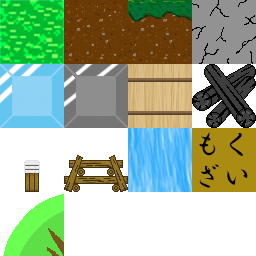
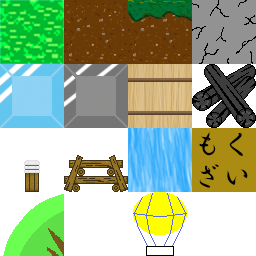
2016.11.05 柏 気球に関する処理追加

Changed region(s): [[0.5, 0.75, 0.75, 1.0]]

diff --git a/TeamWorkGame/TeamWorkGame/TeamWorkGame/Actor/Balloon.cs b/TeamWorkGame/TeamWorkGame/TeamWorkGame/Actor/Balloon.cs
@@ -1,0 +1,111 @@
+using System;
+using System.Collections.Generic;
+using System.Linq;
+using System.Text;
+using Microsoft.Xna.Framework;
+using TeamWorkGame.Device;
+using TeamWorkGame.Def;
+using TeamWorkGame.Utility;
+using Microsoft.Xna.Framework.Graphics;
+
+namespace TeamWorkGame.Actor
+{
+
+    public class Balloon : GameObject
+    {
+        private Timer timer;
+        private int flyLevel;
+        private Vector2 startPosition;
+        private bool playerIsOn;
+        //private Animation animation;
+        //private AnimationPlayer animationPlayer;
+        //private bool IsAnimation = false;
+
+        public Balloon(Vector2 pos, Vector2 velo)
+            : base("balloon", pos, velo, false, "balloon")
+        {
+            //animationPlayer = new AnimationPlayer();
+
+            startPosition = pos;
+        }
+
+        public override void Initialize()
+        {
+            base.Initialize();
+
+            flyLevel = 0;
+            playerIsOn = false;
+        }
+
+        public override void Update(GameTime gameTime)
+        {
+            AliveUpdate();
+            //animationPlayer.PlayAnimation(animation);
+
+            if (!playerIsOn) {
+                if (PositionY >= startPosition.Y) { return; }
+                PositionY++;
+            }
+        }
+
+        public bool IsPlayerOn {
+            get { return playerIsOn; }
+            set { playerIsOn = value; }
+        }
+
+
+        public override void AliveEvent(GameObject other)
+        {
+            if (other is Player)
+            {
+                if (((Player)other).IsOnBalloon)
+                {
+                    other.Position = position;
+                    if (startPosition.Y - PositionY == Height * flyLevel) { return; }
+                    int velo = (int)(startPosition.Y - PositionY - Height * flyLevel);
+                    if (velo > 0)
+                    {
+                        PositionY++;
+                    }
+                    else {
+                        PositionY--;
+                    }
+                }
+            }
+        }
+
+        /// <summary>
+        /// 描画の再定義（透明値を追加）　By　氷見悠人　2016/10/20
+        /// </summary>
+        /// <param name="gameTime"></param>
+        /// <param name="renderer"></param>
+        /// <param name="offset"></param>
+        public override void Draw(GameTime gameTime, Renderer renderer, Vector2 offset)
+        {
+            renderer.DrawTexture(name, position + offset, alpha);
+            //if (IsAnimation)
+            //{
+            //    animationPlayer.Draw(gameTime, renderer, position + offset, SpriteEffects.None);
+            //    IsAnimation = animationPlayer.Reset(isShow);
+            //}
+        }
+
+        public override void EventHandle(GameObject other)
+        {
+            //火の数によって行動する
+            if (other is Player)
+            {
+                if (!playerIsOn) {;
+                    ((Player)other).IsOnBalloon = true;
+                    ((Player)other).IsOnGround = true;
+                    playerIsOn = true;
+                }
+
+                flyLevel = ((Player)other).FireNum;
+                AliveEvent(other);
+                //IsAnimation = true;
+            }
+        }
+    }
+
+}

diff --git a/TeamWorkGame/TeamWorkGame/TeamWorkGame/Actor/Player.cs b/TeamWorkGame/TeamWorkGame/TeamWorkGame/Actor/Player.cs
@@ -39,6 +39,8 @@ namespace TeamWorkGame.Actor
         private AnimationPlayer animePlayer;    //アニメ再生器
         private SpriteEffects flip = SpriteEffects.None;
 
+        private bool isOnBalloon;   //気球に乗ってるかどうか
+
         public int FireNum
         {
             get
@@ -87,6 +89,7 @@ namespace TeamWorkGame.Actor
             fireMaxNum = Parameter.FireMaxNum;
             fireNum = fireMaxNum;
             runAnime = new Animation(Renderer.GetTexture("playerAnime"), 0.1f, true);
+            isOnBalloon = false;
         }
 
         /// <summary>
@@ -195,6 +198,11 @@ namespace TeamWorkGame.Actor
                 {
                     other.EventHandle(this);
                 }
+                else {
+                    if (other is Balloon) {
+                        ((Balloon)other).IsPlayerOn = false;
+                    }
+                }
             }
 
             return flag;
@@ -207,6 +215,22 @@ namespace TeamWorkGame.Actor
         public override void Update(GameTime gameTime)
         {
             float speed = 5f;    //移動速度
+
+
+            //気球と衝突判定
+            foreach (var m in map.MapThings.FindAll(x => x is Balloon))
+            {
+                if (base.CollisionCheck(m))
+                {
+                    if (inputState.GetKeyState(Keys.Left)) { diretion = Direction.LEFT; }
+                    if (inputState.CheckTriggerKey(Parameter.JumpKey, Parameter.JumpButton))
+                    {
+                        isOnBalloon = false;
+                        isOnGround = false;
+                    }
+                }
+            }
+
 
             velocity.X = inputState.Velocity().X * speed;
 
@@ -229,6 +253,7 @@ namespace TeamWorkGame.Actor
                 {
                     velocity.Y = -13;
                     isOnGround = false;
+                    isOnBalloon = false;    //気球から離れる
                 }
             }
 
@@ -270,14 +295,18 @@ namespace TeamWorkGame.Actor
                 CollisionCheck(m);
             }
 
+
             //火と衝突判定
             foreach (var f in firesList)
             {
                 CollisionCheck(f);
             }
 
+            
+
+
             //滝との衝突判定
-            foreach(var wl in watersList)
+            foreach (var wl in watersList)
             {
                 foreach (var w in wl.Waters)
                     CollisionCheck(w);
@@ -297,6 +326,12 @@ namespace TeamWorkGame.Actor
         public bool GetState()
         {
             return isDead;
+        }
+
+        public bool IsOnBalloon
+        {
+            get { return isOnBalloon; }
+            set { isOnBalloon = value; }
         }
 
         /// <summary>

diff --git a/TeamWorkGame/TeamWorkGame/TeamWorkGame/Scene/PlayScene.cs b/TeamWorkGame/TeamWorkGame/TeamWorkGame/Scene/PlayScene.cs
@@ -48,6 +48,7 @@ namespace TeamWorkGame.Scene
         private StageSever stageSever;
         private int playTime;
 
+
         public PlayScene(GameDevice gameDevice, int mapIndex = 0)
         {
             this.gameDevice = gameDevice;
@@ -246,6 +247,12 @@ namespace TeamWorkGame.Scene
             renderer.DrawNumber("number", new Vector2(1152, 64), coals.Count - nowCoals.Count);
             renderer.DrawNumber("number", new Vector2(1182, 64), "/", 1);
             renderer.DrawNumber("number", new Vector2(1216, 64), coals.Count);
+
+            //playTimeの表示(柏)
+            int[] playtime = stageSever.TimeCalculat(playTime/60);
+            renderer.DrawNumber("number", new Vector2(1152, 128), playtime[0]);
+            renderer.DrawNumber("number", new Vector2(1182, 128), "/", 1);
+            renderer.DrawNumber("number", new Vector2(1216, 128), playtime[1]);
         }
 
         public Rectangle GetRect(int num)

diff --git a/TeamWorkGame/TeamWorkGame/TeamWorkGame/Utility/Method.cs b/TeamWorkGame/TeamWorkGame/TeamWorkGame/Utility/Method.cs
@@ -297,6 +297,12 @@ namespace TeamWorkGame.Utility
                                 MapThings.Add(sand);
                                 break;
                             }
+                        case (int)GimmickType.BALLOON:
+                            {
+                                Balloon balloon = new Balloon(new Vector2(j * 64, i * 64), Vector2.Zero);
+                                MapThings.Add(balloon);
+                                break;
+                            }
                     }
                 }
             }

diff --git a/TeamWorkGame/TeamWorkGame/TeamWorkGame/Game1.cs b/TeamWorkGame/TeamWorkGame/TeamWorkGame/Game1.cs
@@ -135,6 +135,8 @@ namespace TeamWorkGame
             renderer.LoadTexture("GameStartText");
             renderer.LoadTexture("WorldText");
             renderer.LoadTexture("StaffText");
+            renderer.LoadTexture("balloon");
+            
 
             //renderer.LoadTexture("puddle");
 

diff --git a/TeamWorkGame/TeamWorkGame/TeamWorkGame/Def/GimmickType.cs b/TeamWorkGame/TeamWorkGame/TeamWorkGame/Def/GimmickType.cs
@@ -27,5 +27,6 @@ namespace TeamWorkGame.Def
         WOOD,           //木材
         TREE,           //木
         SAND,           //砂
+        BALLOON,        //気球
     }
 }

diff --git a/TeamWorkGame/TeamWorkGame/TeamWorkGame/Actor/GameObject.cs b/TeamWorkGame/TeamWorkGame/TeamWorkGame/Actor/GameObject.cs
@@ -180,6 +180,7 @@ namespace TeamWorkGame.Actor
             }
         }
 
+
         public bool IsTrigger
         {
             get
